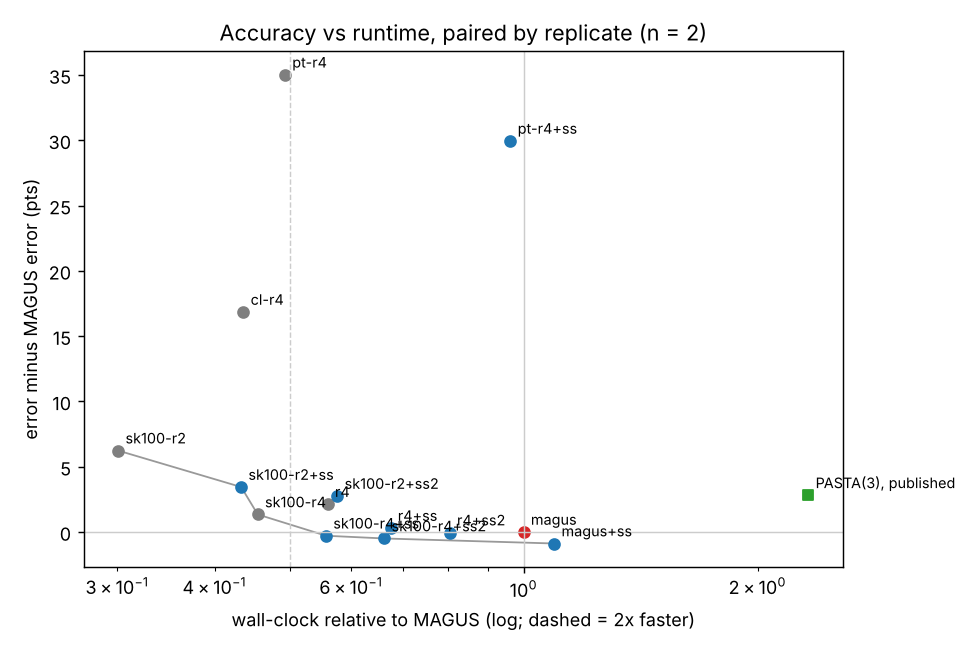
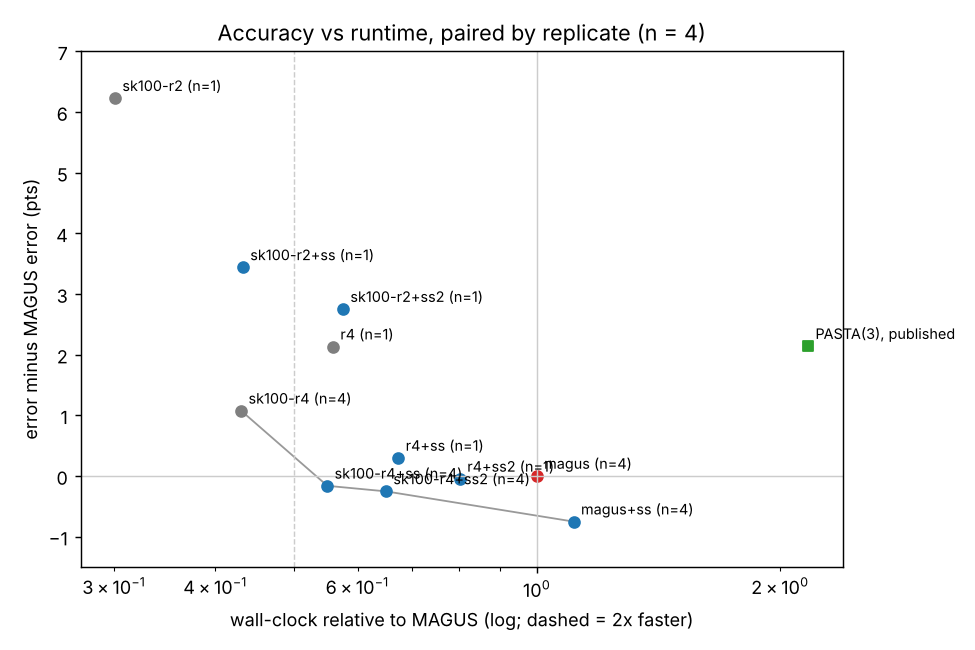
fastmagus: final report (4 replicates), readable Pareto plot
Claude-Session: https://claude.ai/code/session_016eRY2Kh3vGd3hmAfDk9d2R

diff --git a/cs581/fastmagus/code/analyze.py b/cs581/fastmagus/code/analyze.py
@@ -124,20 +124,24 @@ def main():
     fig, ax = plt.subplots(figsize=(7.5, 5))
     xs = {v: p[0] for v, p in points.items()}
     front = []
-    for v, (x, y, n) in sorted(points.items(), key=lambda kv: kv[1][0]):
+    for v, (x, y, n) in sorted(((v, p) for v, p in points.items() if p[2] == max(q[2] for q in points.values())),
+                               key=lambda kv: kv[1][0]):
         if not front or y < front[-1][1]:
             front.append((x, y))
-    ax.plot([f[0] for f in front], [f[1] for f in front], "-", color="#999", lw=1, zorder=1, label="Pareto front")
+    ax.plot([f[0] for f in front], [f[1] for f in front], "-", color="#999", lw=1, zorder=1, label="Pareto front (variants run on all replicates)")
     for v, (x, y, n) in points.items():
+        if y > 8:
+            continue  # alignment-free guide trees: far off the scale, listed in the tables
         c = "#d62728" if v == "magus" else ("#1f77b4" if "+ss" in v else "#7f7f7f")
         ax.scatter(x, y, color=c, zorder=2)
-        ax.annotate(v, (x, y), textcoords="offset points", xytext=(4, 4), fontsize=8)
+        ax.annotate("{} (n={})".format(v, n), (x, y), textcoords="offset points", xytext=(4, 4), fontsize=8)
     if ref:
         ax.scatter(rx, ry, marker="s", color="#2ca02c", zorder=2)
         ax.annotate("PASTA(3), published", (rx, ry), textcoords="offset points", xytext=(4, 4), fontsize=8)
     ax.axhline(0, color="#ccc", lw=0.8)
     ax.axvline(1, color="#ccc", lw=0.8)
     ax.axvline(0.5, color="#ccc", lw=0.8, ls="--")
+    ax.set_ylim(-1.5, 7)
     ax.set_xscale("log")
     ax.set_xlabel("wall-clock relative to MAGUS (log; dashed = 2x faster)")
     ax.set_ylabel("error minus MAGUS error (pts)")

diff --git a/cs581/fastmagus/REPORT.md b/cs581/fastmagus/REPORT.md
@@ -101,17 +101,109 @@ Pilot findings:
 
 ### Leading variant across replicates (sk100-r4 ± self-soft)
 
-FILLED IN BELOW (see "Final results").
+| replicate | MAGUS err / wall | magus+ss | sk100-r4 | **sk100-r4+ss** | sk100-r4+ss2 | published MAGUS(Fast) err |
+|---|---|---|---|---|---|---|
+| 1000M2_R0 | 9.74 / 1323 s | 8.76 / 1470 s | 11.37 / 581 s | **9.02 / 734 s** | 8.79 / 903 s | 8.25 |
+| 1000L1_R0 | 7.88 / 1552 s | 7.09 / 1675 s | 8.93 / 732 s | **8.01 / 867 s** | 7.83 / 996 s | 8.11 |
+| 1000S2_R0 | 3.89 / 1049 s | 3.08 / 1116 s | 4.71 / 453 s | **3.90 / 523 s** | 3.81 / 589 s | 3.48 |
+| BBA0101_R0 | 28.03 / 989 s | 27.60 / 1185 s | 28.83 / 385 s | **27.95 / 593 s** | 28.10 / 737 s | 28.45 |
+
+Paired with our MAGUS run (n = 4; tie band 0.05 points; two-sided Wilcoxon):
+
+| variant | mean Δ (pts) | W/T/L | Wilcoxon p | wall speedup | CPU ratio | mean Δ vs published MAGUS(Fast) |
+|---|---|---|---|---|---|---|
+| magus+ss (accuracy reference) | −0.75 | 4/0/0 | 0.125 | 0.90× | 0.95× | −0.44 |
+| sk100-r4 | +1.07 | 0/0/4 | 0.125 | **2.32×** | 2.39× | +1.38 |
+| **sk100-r4+ss** | **−0.16** | 2/1/1 | 0.88 | **1.82×** | **2.12×** | +0.15 |
+| sk100-r4+ss2 | −0.25 | 2/1/1 | 0.38 | 1.54× | 1.92× | +0.05 |
+
+(With n = 4, the smallest possible two-sided Wilcoxon p is 0.125.)
 
 ## Accuracy–runtime plot
 
 ![Pareto](results/pareto.png)
 
-x = wall-clock relative to our MAGUS run (log scale; dashed line = 2× faster); y = Δerror.
+Points with n = 1 come from the 1000M2_R0 pilot only; PartTree and Clustal are off the
+scale (+30 to +35 and +17 points). x = wall-clock relative to our MAGUS run (log scale; dashed line = 2× faster); y = Δerror.
 Green square: PASTA(3) from the authors' published logs and alignments of the same
-replicates. It is ~2.3× *slower* than MAGUS(Fast) and ~+2.8 points worse there, so it sits far
+replicates. It is 2.17× *slower* than MAGUS(Fast) and +2.14 points worse there, so it sits far
 up and to the right.
 
-## Verdict
+## Verdict: **unclear, leaning "not" for the stated goal**
 
-FILLED IN BELOW.
+**The best balanced variant is sk100-r4+ss:**
+- FastTree guide tree on a 100-sequence skeleton;
+- 4 MAFFT-L-INS-i backbones;
+- one self-soft round.
+
+It is **1.82× faster in wall-clock (2.12× in CPU) at MAGUS-level accuracy**: −0.16 points vs
+our MAGUS runs and +0.15 vs the published MAGUS alignments, 2 wins / 1 tie / 1 loss. So it
+**ties MAGUS at ~1.8×. It is neither ≥ 2× faster nor clearly more accurate**, and it is clearly
+worse than MAGUS+self-soft (by ~0.6 points), which is the accuracy bar the self-soft work
+already set.
+
+Pushing the variant to ≥ 2× costs accuracy:
+- dropping self-soft gives 2.3× at +1.1 points;
+- 2 backbones gives 3.3× at +6 points, and self-soft only partly repairs that.
+
+What the pilot established:
+- Alignment-free guide trees (PartTree, Clustal mBed) are unusable on divergent DNA
+  (+17 to +35 points). The guide-tree savings must come from a smaller alignment-based skeleton.
+- Skeleton 100 saves ~65% of the guide-tree time at no measurable cost.
+- The 10 backbones are the real cost (~80% of the wall together with the subset alignments).
+  4 backbones are needed; with fewer, self-soft cannot recover.
+- Self-soft repairs most of what 6 fewer backbones lose (−1.2 points of the +1.1 gap on
+  average). Its wall time (~120–200 s per round) is now what blocks 2×.
+- Self-soft is under-parallelized: wall speedup 1.82× vs CPU ratio 2.12×. Its HMM evidence
+  step and Python parts do not fill 4 cores.
+
+## What a 4-week project would look like
+
+1. **Week 1: confirmation.**
+   - Run `code/fm_worker.sh` on ≥ 10 replicates per condition: ROSE L/M/S, RNASim 1000, and
+     the 8 BAliBASE sets.
+   - Variants: MAGUS, magus+ss, sk100-r4+ss, sk100-r4+ss2. The job lists are ready.
+   - Needs ~4–6 parallel workers, ~3 h each.
+   - Use the published MAGUS alignments as a second baseline: backbone-draw noise is ~1.5
+     points on 1000M2_R0 (9.74 here vs 8.18 in an earlier run on the same machine type vs 8.25
+     published).
+2. **Week 2: engineer the remaining ~10–20% of wall-clock** (all output-preserving or cheap):
+   - run the self-soft HMM extension in parallel with the merge's graph build;
+   - use 5 pseudo-backbones instead of 10, or extend only to the sequences not already in a
+     pseudo-backbone;
+   - start the self-soft evidence as soon as the base merge is done;
+   - test whether MAFFT `--thread 1` per pool task, instead of MAGUS's `--thread 4` ×
+     4 slots (oversubscribed), lowers the backbone-stage wall at identical output. This must be
+     verified: multithreaded MAFFT is not guaranteed to be bit-identical.
+   - Target: sk100-r4+ss at ≥ 2.0× wall.
+3. **Week 3: accuracy side.** Use 3 backbones plus a second self-soft round, or put
+   evidence-weighted pseudo-backbones in place of one MAFFT backbone, to reach "better than
+   MAGUS" rather than "tie". Measure scaling on RNASim 10K / 16S.T, where the guide tree and
+   the merge take larger shares.
+4. **Week 4:** final paired statistics, the Pareto plot with PASTA/MAGUS published points, and
+   the write-up.
+
+## Risks
+
+- **The 2× target may simply be out of reach at equal accuracy** with MAFFT-L-INS-i fixed. Even
+  with a perfect guide tree and zero-cost self-soft, 4 backbones + 25 subset alignments take
+  ~33–41% of MAGUS's wall here, but a self-soft round costs another 10–15%.
+- **Noise.** MAGUS's own backbone draw moves error by 0.6–1.5 points per replicate, so a
+  "−0.2 point" claim needs many replicates; n = 4 here is far from that.
+- **Machine dependence.** The stage split differs from the published logs (guide tree 19% here
+  vs ~31% there), so speedup ratios may not transfer to other hardware or core counts.
+- **Novelty is modest.** "Fewer backbones + an iterative refinement" is engineering, not a new
+  algorithm. The interesting part is the self-soft evidence; it may be better framed as an
+  accuracy method that also enables cheaper evidence.
+
+## Reproduce
+
+```
+bash cs581/code/setup.sh
+bash cs581/fastmagus/code/fm_worker.sh local       # jobs: code/jobs/local.txt (re-read from the branch)
+python cs581/fastmagus/code/analyze.py              # results/summary.md, results/pareto.png
+```
+
+Housekeeping note: on 1000L1_R0 the job was stopped after its sk100-r4 rows were complete, to
+skip the 2-backbone variant; its row in `results/local.jsonl` was written from the run's state
+file. All values are measured; none are estimated.

diff --git a/cs581/fastmagus/results/summary.md b/cs581/fastmagus/results/summary.md
@@ -4,38 +4,38 @@ Error = (SPFN+SPFP)/2 in %. Delta < 0: lower error than MAGUS. W/T/L: replicates
 
 ## Per replicate (error %, wall s)
 
-| variant | 1000L1_R0 | 1000M2_R0 |
-|---|---|---|
-| magus | 7.88 (1552) | 9.74 (1323) |
-| magus+ss | 7.09 (1675) | 8.76 (1470) |
-| pt-r4 | - | 44.75 (652) |
-| pt-r4+ss | - | 39.69 (1272) |
-| cl-r4 | - | 26.59 (577) |
-| r4 | - | 11.87 (740) |
-| r4+ss | - | 10.04 (892) |
-| r4+ss2 | - | 9.69 (1063) |
-| sk100-r4 | 8.93 (732) | 11.37 (581) |
-| sk100-r4+ss | 8.01 (867) | 9.02 (734) |
-| sk100-r4+ss2 | 7.83 (996) | 8.79 (903) |
-| sk100-r2 | - | 15.97 (398) |
-| sk100-r2+ss | - | 13.18 (573) |
-| sk100-r2+ss2 | - | 12.49 (762) |
+| variant | 1000L1_R0 | 1000M2_R0 | 1000S2_R0 | BBA0101_R0 |
+|---|---|---|---|---|
+| magus | 7.88 (1552) | 9.74 (1323) | 3.89 (1049) | 28.03 (989) |
+| magus+ss | 7.09 (1675) | 8.76 (1470) | 3.08 (1116) | 27.60 (1185) |
+| pt-r4 | - | 44.75 (652) | - | - |
+| pt-r4+ss | - | 39.69 (1272) | - | - |
+| cl-r4 | - | 26.59 (577) | - | - |
+| r4 | - | 11.87 (740) | - | - |
+| r4+ss | - | 10.04 (892) | - | - |
+| r4+ss2 | - | 9.69 (1063) | - | - |
+| sk100-r4 | 8.93 (732) | 11.37 (581) | 4.71 (453) | 28.83 (385) |
+| sk100-r4+ss | 8.01 (867) | 9.02 (734) | 3.90 (523) | 27.95 (593) |
+| sk100-r4+ss2 | 7.83 (996) | 8.79 (903) | 3.81 (589) | 28.10 (736) |
+| sk100-r2 | - | 15.97 (398) | - | - |
+| sk100-r2+ss | - | 13.18 (573) | - | - |
+| sk100-r2+ss2 | - | 12.49 (762) | - | - |
 
 ## Paired summary
 
 | variant | n | mean err | mean delta (pts) | W/T/L | Wilcoxon p | mean wall s | speedup vs MAGUS (mean of ratios) | CPU ratio |
 |---|---|---|---|---|---|---|---|---|
-| magus | 2 | 8.81 | +0.00 | 0/2/0 | - | 1437 | 1.00x | 1.00x |
-| magus+ss | 2 | 7.92 | -0.89 | 2/0/0 | 0.5 | 1572 | 0.91x | 0.95x |
+| magus | 4 | 12.38 | +0.00 | 0/4/0 | - | 1228 | 1.00x | 1.00x |
+| magus+ss | 4 | 11.63 | -0.75 | 4/0/0 | 0.125 | 1361 | 0.90x | 0.95x |
 | pt-r4 | 1 | 44.75 | +35.01 | 0/0/1 | - | 652 | 2.03x | 2.05x |
 | pt-r4+ss | 1 | 39.69 | +29.95 | 0/0/1 | - | 1272 | 1.04x | 1.38x |
 | cl-r4 | 1 | 26.59 | +16.85 | 0/0/1 | - | 577 | 2.29x | 2.28x |
 | r4 | 1 | 11.87 | +2.13 | 0/0/1 | - | 740 | 1.79x | 1.82x |
 | r4+ss | 1 | 10.04 | +0.30 | 0/0/1 | - | 892 | 1.48x | 1.63x |
 | r4+ss2 | 1 | 9.69 | -0.05 | 0/1/0 | - | 1063 | 1.24x | 1.44x |
-| sk100-r4 | 2 | 10.15 | +1.34 | 0/0/2 | 0.5 | 656 | 2.20x | 2.24x |
-| sk100-r4+ss | 2 | 8.52 | -0.29 | 1/0/1 | 1 | 800 | 1.80x | 1.99x |
-| sk100-r4+ss2 | 2 | 8.31 | -0.50 | 1/1/0 | 0.5 | 950 | 1.51x | 1.77x |
+| sk100-r4 | 4 | 13.46 | +1.07 | 0/0/4 | 0.125 | 538 | 2.32x | 2.39x |
+| sk100-r4+ss | 4 | 12.22 | -0.16 | 2/1/1 | 0.875 | 679 | 1.82x | 2.12x |
+| sk100-r4+ss2 | 4 | 12.13 | -0.25 | 2/1/1 | 0.375 | 806 | 1.54x | 1.92x |
 | sk100-r2 | 1 | 15.97 | +6.23 | 0/0/1 | - | 398 | 3.33x | 3.52x |
 | sk100-r2+ss | 1 | 13.18 | +3.44 | 0/0/1 | - | 573 | 2.31x | 2.80x |
 | sk100-r2+ss2 | 1 | 12.49 | +2.75 | 0/0/1 | - | 762 | 1.74x | 2.26x |
@@ -44,17 +44,17 @@ Error = (SPFN+SPFP)/2 in %. Delta < 0: lower error than MAGUS. W/T/L: replicates
 
 | variant | n | mean delta vs published MAGUS(Fast) (pts) | W/T/L |
 |---|---|---|---|
-| magus | 2 | +0.63 | 1/0/1 |
-| magus+ss | 2 | -0.26 | 1/0/1 |
+| magus | 4 | +0.31 | 2/0/2 |
+| magus+ss | 4 | -0.44 | 3/0/1 |
 | pt-r4 | 1 | +36.50 | 0/0/1 |
 | pt-r4+ss | 1 | +31.43 | 0/0/1 |
 | cl-r4 | 1 | +18.33 | 0/0/1 |
 | r4 | 1 | +3.62 | 0/0/1 |
 | r4+ss | 1 | +1.78 | 0/0/1 |
 | r4+ss2 | 1 | +1.44 | 0/0/1 |
-| sk100-r4 | 2 | +1.97 | 0/0/2 |
-| sk100-r4+ss | 2 | +0.34 | 1/0/1 |
-| sk100-r4+ss2 | 2 | +0.13 | 1/0/1 |
+| sk100-r4 | 4 | +1.38 | 0/0/4 |
+| sk100-r4+ss | 4 | +0.15 | 2/0/2 |
+| sk100-r4+ss2 | 4 | +0.05 | 2/0/2 |
 | sk100-r2 | 1 | +7.71 | 0/0/1 |
 | sk100-r2+ss | 1 | +4.93 | 0/0/1 |
 | sk100-r2+ss2 | 1 | +4.24 | 0/0/1 |
@@ -65,5 +65,7 @@ Error = (SPFN+SPFP)/2 in %. Delta < 0: lower error than MAGUS. W/T/L: replicates
 |---|---|---|---|---|
 | 1000L1_R0 | 1552 | 288 (19%) | 1245 (80%) | 18 (1%) |
 | 1000M2_R0 | 1323 | 253 (19%) | 1052 (79%) | 19 (1%) |
+| 1000S2_R0 | 1049 | 205 (20%) | 839 (80%) | 5 (0%) |
+| BBA0101_R0 | 989 | 175 (18%) | 776 (78%) | 38 (4%) |
 
-PASTA(3) (published alignments and logs, same 2 replicates): 2.33x MAGUS(Fast)'s runtime, +2.80 pts error vs MAGUS(Fast).
+PASTA(3) (published alignments and logs, same 4 replicates): 2.17x MAGUS(Fast)'s runtime, +2.14 pts error vs MAGUS(Fast).
